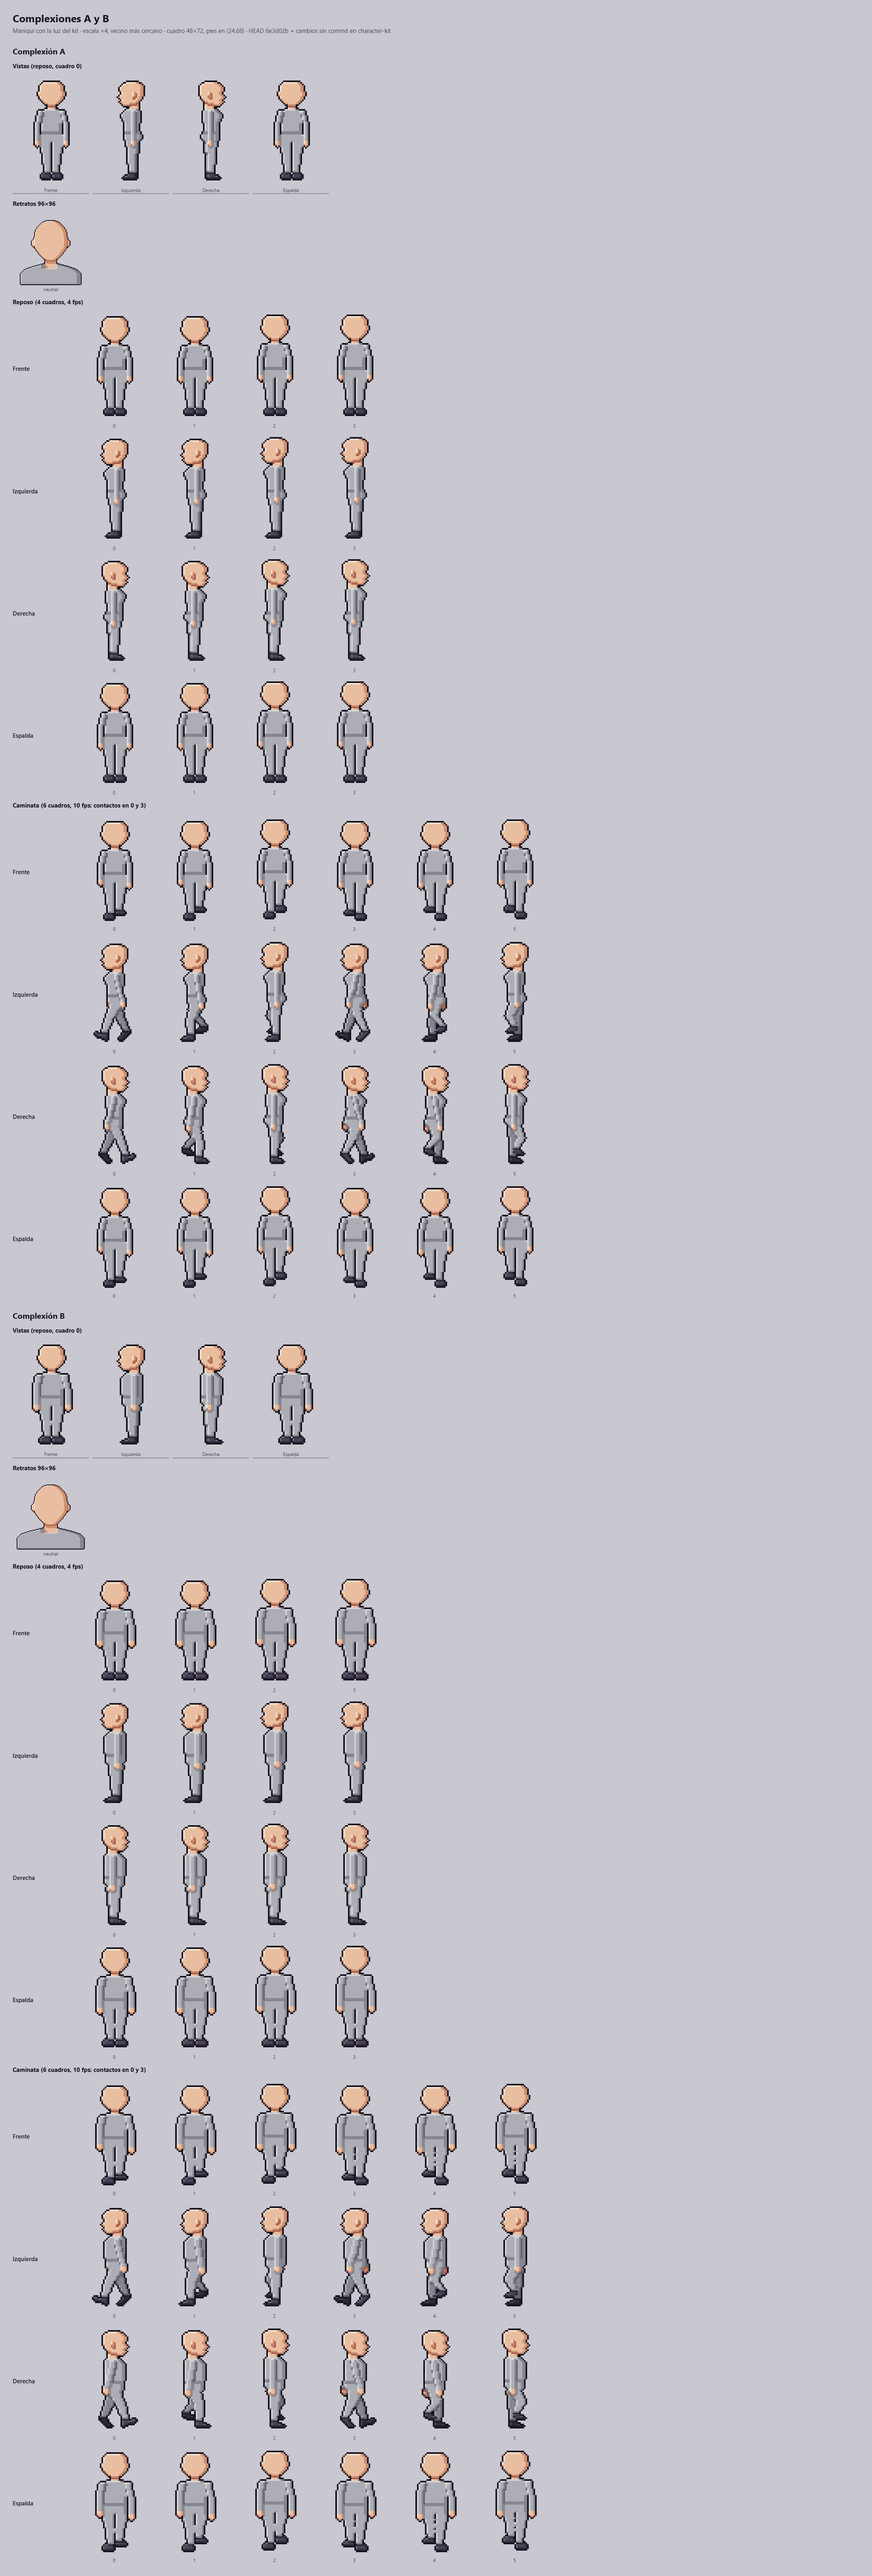
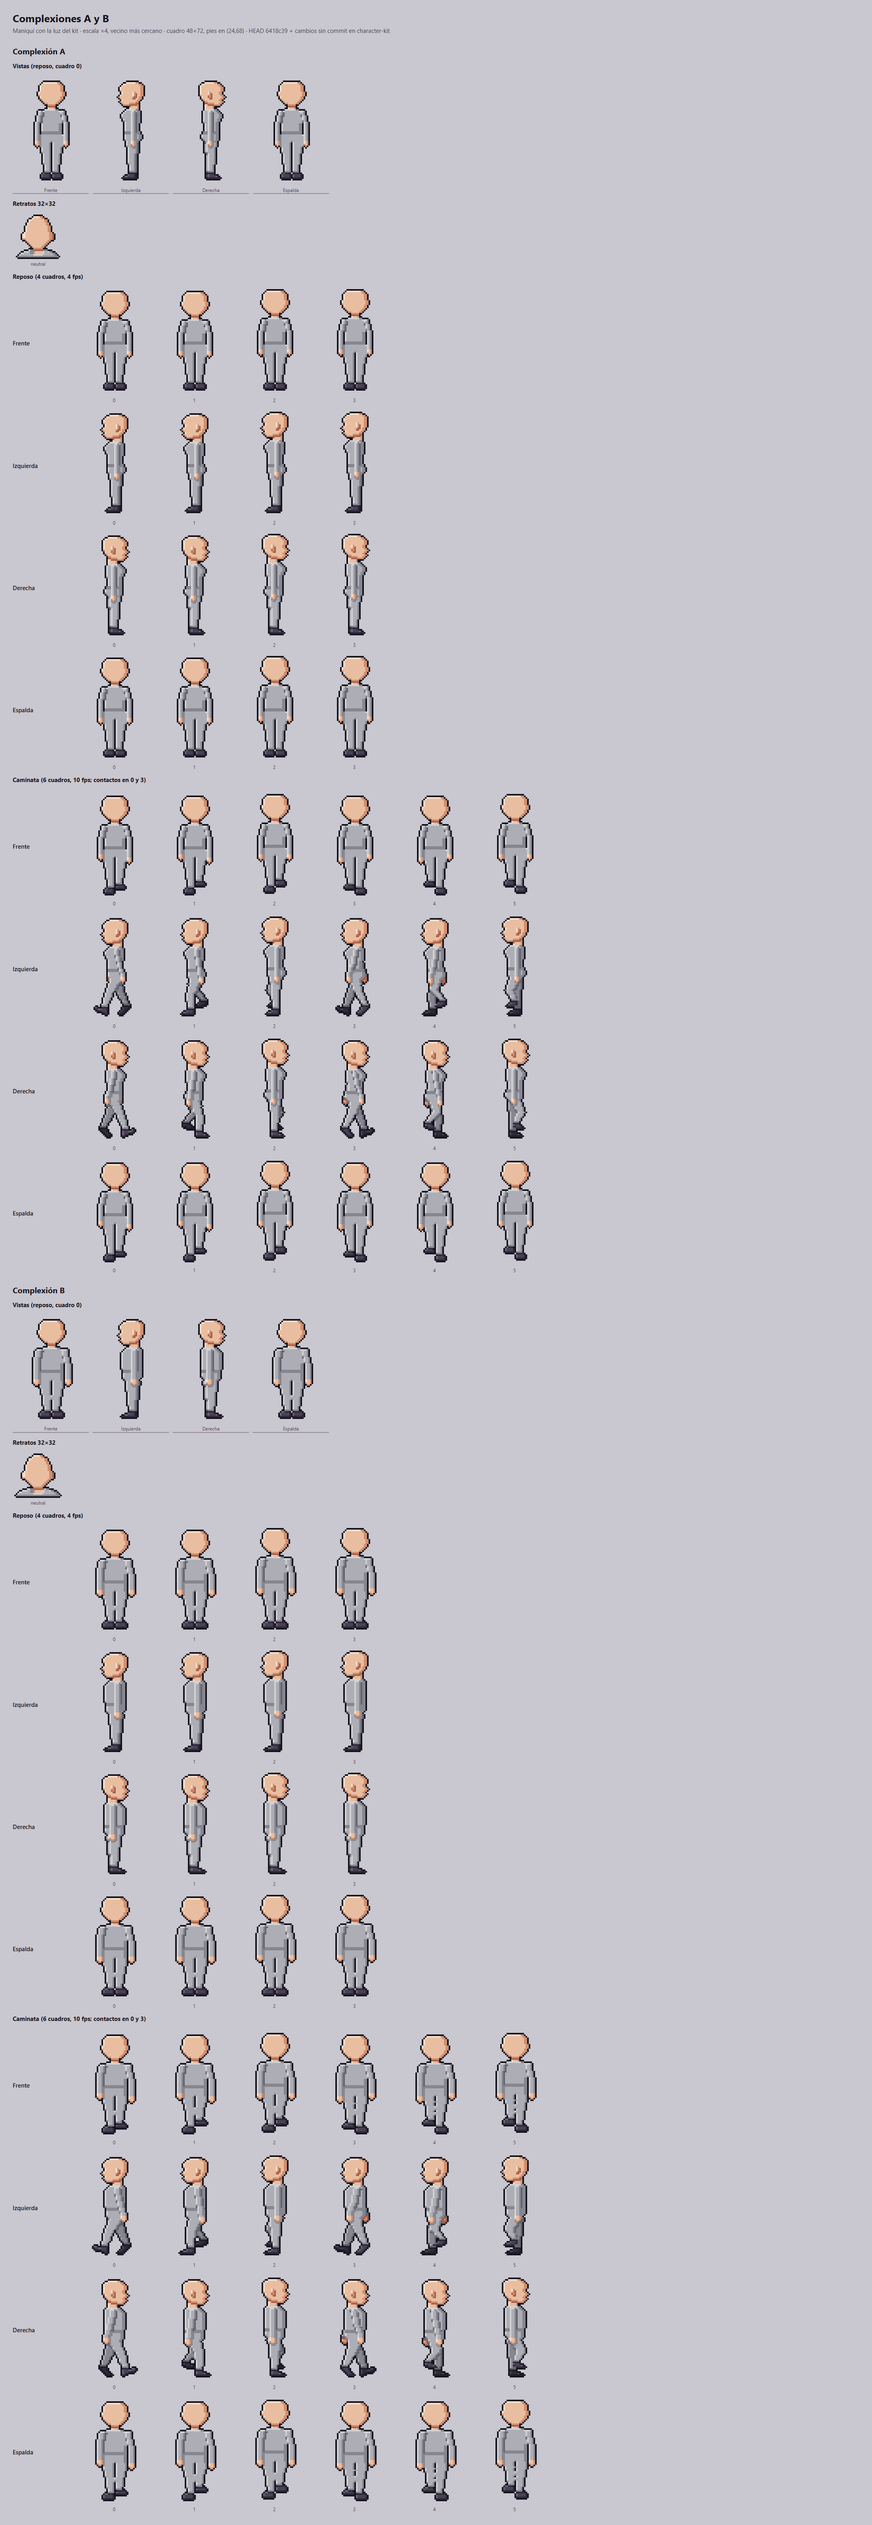
feat(personajes): retratos tiernos de 32×32 mostrados a ×3
Pedido en la PARADA 1: retratos más tiernos, más pixelados y con menos
detalle, con los ojos más juntos. Bustos A y B redibujados a 32×32 con la
misma cabeza; retratos de bob, rostro sereno y chaqueta portados del
prototipo aprobado (ojos de 2×3 a 6 px, rubor, sonrisa pequeña). El motor,
el validador y las láminas pasan al tamaño nuevo; el spec lo registra como
decisión 15.

diff --git a/frontend/src/app/features/character/kit/kit-engine.ts b/frontend/src/app/features/character/kit/kit-engine.ts
@@ -26,7 +26,8 @@ export type PieceKind = 'hair' | 'face' | 'top' | 'layer' | 'bottom' | 'shoes' |
 export type PortraitState = 'neutral' | 'preocupada' | 'triste' | 'alegre';
 
 export const FRAME = Object.freeze({ width: 48, height: 72, pivotX: 24, pivotY: 68 });
-export const PORTRAIT_FRAME = Object.freeze({ width: 96, height: 96 });
+/** Retrato de 32×32: se muestra a ×3 en una caja de 96 px (estilo tierno de poco detalle). */
+export const PORTRAIT_FRAME = Object.freeze({ width: 32, height: 32 });
 export const SHEETS: Readonly<Record<SheetId, { readonly frames: number; readonly fps: number }>> = Object.freeze({
   idle: Object.freeze({ frames: 4, fps: 4 }),
   walk: Object.freeze({ frames: 6, fps: 10 }),
@@ -471,8 +472,8 @@ export const LIGHT_RULES: LightRules = Object.freeze({
 });
 
 /** Luz del retrato: formas grandes, bandas de sombra más anchas y sombra del mentón. */
-const PORTRAIT_SHADE: Readonly<Record<string, number>> = Object.freeze({ H: 4, hair: 4, T: 5, N: 3 });
-const PORTRAIT_CAST: Readonly<Record<string, number>> = Object.freeze({ N: 4, H: 2, T: 2 });
+const PORTRAIT_SHADE: Readonly<Record<string, number>> = Object.freeze({ H: 2, hair: 2, T: 2, N: 1 });
+const PORTRAIT_CAST: Readonly<Record<string, number>> = Object.freeze({ N: 1, H: 1, T: 1 });
 export const PORTRAIT_LIGHT_RULES: LightRules = Object.freeze({
   group: (part: string) => part,
   shadeWidth: (part: string) => PORTRAIT_SHADE[part] ?? 1,
@@ -740,7 +741,7 @@ function composeSheet(bundle: KitBundle, recipe: Recipe, pieces: Piece[], materi
   return { width, height, rgba };
 }
 
-/** Retrato 96×96 con el mismo método: busto etiquetado + piezas + luz del retrato. */
+/** Retrato 32×32 con el mismo método: busto etiquetado + piezas + luz del retrato. */
 export function composePortrait(bundle: KitBundle, recipe: Recipe, state: PortraitState): RgbaImage {
   const bust = bundle.busts[recipe.complexion];
   if (!bust) throw new Error(`${recipeLabel(recipe)}: complexión sin busto ${recipe.complexion}`);

diff --git a/docs/superpowers/specs/2026-10-02-personajes-unificados-design.md b/docs/superpowers/specs/2026-10-02-personajes-unificados-design.md
@@ -24,7 +24,7 @@ No se reabren; el spec las desarrolla.
 2. Estilo adulto estilizado con las medidas de la biblia v1: cuadro de 48×72, pies en (24,68), cabeza de 18-21 px, altura opaca de 60-66 px, contorno de 1 px `#15131d`, luz arriba-izquierda, alfa binario, sin antialias, escala entera, paleta `palette.v1.json`.
 3. Las vistas laterales son perfiles de verdad.
 4. Izquierda y derecha son vistas propias: el generador refleja lo simétrico, recalcula la luz después del espejo y dibuja por lado lo asimétrico (raya del pelo, bolso, gafete).
-5. Fase 1: reposo (4 cuadros a 4 fps, respiración de 1 px) y caminata (6 cuadros a 10 fps) en las 4 vistas, más retratos del diálogo de 96×96 para quienes hablan. Hablar, interactuar, girar y reaccionar quedan para la fase 2.
+5. Fase 1: reposo (4 cuadros a 4 fps, respiración de 1 px) y caminata (6 cuadros a 10 fps) en las 4 vistas, más retratos del diálogo de 32×32 (mostrados a ×3, decisión 15) para quienes hablan. Hablar, interactuar, girar y reaccionar quedan para la fase 2.
 6. Avatar personalizable como kit compacto: 2 complexiones, 6 tonos de piel, ~10 peinados con 6 colores, ~6 conjuntos con variantes de color. El elenco y los NPC se arman con el mismo kit mediante recetas.
 7. Método A: maniquí como datos de píxel por vista y por cuadro, piezas como capas, generador determinista. Nada de IA generativa. Los retratos se arman por piezas.
 8. Los retoques a mano se guardan como una capa del kit.
@@ -34,6 +34,7 @@ No se reabren; el spec las desarrolla.
 12. *(2026-10-03)* Muebles y puertas se recalibran a la altura nueva **en esta rama** (F8), para que `master` nunca tenga personajes y muebles a escalas distintas.
 13. *(2026-10-03)* El tinte del estado clínico de la paciente se reemplaza por un **icono de pixel art sobre la cabeza**; el sprite no se toca.
 14. *(2026-10-03)* Los peinados marcados como `volumen` (afro, moño alto) pueden llegar a **25 px** de cabeza con pelo; en ellos el validador mide además el cráneo (etiqueta `H`, 17 px con contorno).
+15. *(2026-10-03, PARADA 1)* Los retratos son **tiernos y de poco detalle, a 32×32**, y se muestran a ×3 (caja de 96 px) o ×6 (192 px): cabeza grande y redonda, ojos de 2×3 con un píxel de brillo y 6 px entre ellos, cejas de 2 px, rubor, sonrisa pequeña y sin nariz. Sustituye al retrato de 96×96 de la prueba.
 
 ## 3. Lo que hay hoy (medido)
 
@@ -83,7 +84,7 @@ Además, en todo el mundo y el lobby:
 ```
 frontend/character-kit/                       autoría (no se publica)
   mannequins/complexion-a.mjs, complexion-b.mjs   grillas por vista + rig por cuadro
-  busts/bust-a.mjs, bust-b.mjs                    maniquí de retrato 96×96
+  busts/bust-a.mjs, bust-b.mjs                    maniquí de retrato 32×32
   pieces/<tipo>/<id>.mjs                          piezas: vistas del sprite + versión de retrato
   palette.v2.json                                 paleta maestra (v1 + 6.ª piel)
   ramps.mjs                                       rampas con nombre
@@ -254,7 +255,7 @@ Peso estimado: menos de 200 KB sin comprimir.
 
 1. **Al día:** reconstruye en memoria y compara los píxeles decodificados (no los bytes del PNG) de cada hoja, retrato y `kit.json`. Si difieren, indica que hay que ejecutar `npm run kit:build`.
 2. **Contrato de hoja:**
-   - tamaños: `idle` 192×288, `walk` 288×288, retrato 96×96;
+   - tamaños: `idle` 192×288, `walk` 288×288, retrato 32×32;
    - alfa binario, colores de `palette.v2.json` y borde vacío;
    - el cuerpo (con contorno) termina entre y = 66 y y = 68, como en la biblia: en la caminata de frente el pie que avanza pisa 1 px más abajo; el centro del apoyo (el punto medio entre los dos pies) queda a ±6 px de x = 24;
    - una sola silueta por cuadro (un componente opaco).
@@ -388,8 +389,8 @@ Las constantes compartidas (cuadro 48×72, pivote (24,68), filas abajo/izquierda
 | Lobby | Las mismas hojas del kit y el mismo zoom entero que el mundo (§8.3). |
 | Editor de personaje | Vista previa del avatar compuesto en el navegador a ×4: las 4 vistas con reposo y caminata animados. Opciones del §4.7. Tarjetas del elenco con el cuadro 0 a ×2. |
 | Intro del caso | Hojas del kit (caminata a la derecha y reposo de frente) a la escala entera que ya usa el escenario. |
-| Diálogo | Retrato de la receta del hablante, en una caja de 96 o 192 px según el diseño, sin `object-fit` que lo encoja. |
-| Resultado del intento | Retrato neutral del jugador a 96 px (hoy 64). |
+| Diálogo | Retrato de la receta del hablante a ×3 (96 px) o ×6 (192 px) según el diseño, sin `object-fit` que lo encoja. |
+| Resultado del intento | Retrato neutral del jugador a ×3, 96 px (hoy 64). |
 | Editor de mundo | Cuadro 0 de frente y de perfil a ×1 (48×72). Los campos del NPC pasan a ser «plantilla = receta» u opciones del kit. |
 
 ### 8.3 Render a escala entera
@@ -412,7 +413,7 @@ La cámara sigue a la jugadora con `roundPixels` y se limita a la sala; si la vi
 
 **Nada deforma los píxeles.** Se retira `character-motion.util`: la respiración y el bob ya vienen en las hojas. Se quitan todos los tintes de actores. El tinte del estado clínico de la paciente se reemplaza por un icono de pixel art sobre la cabeza, con colores de la paleta y a la misma escala entera (decisión 13).
 
-**Retratos y vistas CSS.** Siempre a ×1, ×2 o ×4 con `image-rendering: pixelated` y una caja del tamaño exacto.
+**Retratos y vistas CSS.** Los sprites, siempre a ×1, ×2 o ×4; los retratos (32×32), a ×3 o ×6. Todo con `image-rendering: pixelated` y una caja del tamaño exacto.
 
 ### 8.4 Pruebas e2e (aviso)
 
